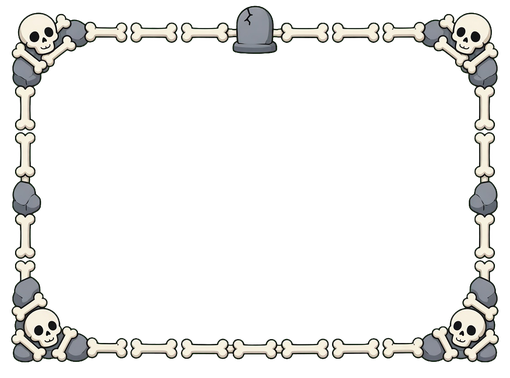
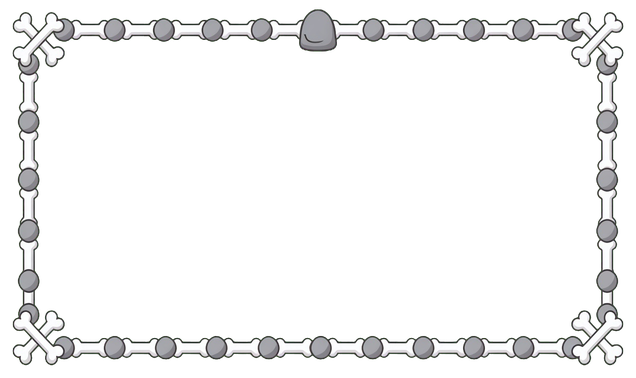
Cards: parchment, 25% wider, dark ink, tags on the top edge
- Grok parchment sheet tinted per kind (the colour coding stays); words
  in dark ink, the number in the kind's ink, the name in rarity ink.
- 212x126 (was 170x126): name 16px, text 12px, number 32px.
- Frames remade at 16:9 for the wider card (art-src/card-frames-wide);
  names start below the top ornament.
- ONCE / FLEETING / CURSED straddle the top edge on the left, clear of the
  enemy's ATK / DEF line.
- DECISIONS #86; NEXT.md; ART.md; screenshots in
  docs/audit/card-parchment-2026-11-01.

Claude-Session: https://claude.ai/code/session_019Lkx2XUgC2w8gfzapayGjN

Changed region(s): [[0.0, 0.0, 1.0, 0.9603]]

diff --git a/re-rpg/src/game/ui/Card.ts b/re-rpg/src/game/ui/Card.ts
@@ -3,19 +3,28 @@ import type { Skill, Stats } from '@data/types';
 import { cardFace, cardTheme, type CardKind, type CardPreview } from '@data/describe';
 import { COLORS, FONT, RARITY_COLORS } from './theme';
 
-/** A little bigger than before (150×112) so the frame (DECISIONS #85) takes no room from the text. */
-export const CARD_W = 170;
+/**
+ * 25% wider than #85's 170 (DECISIONS #86): the hand has the room, and wider lines mean fewer of them
+ * and bigger type. The frame (#85) takes only the margin.
+ */
+export const CARD_W = 212;
 export const CARD_H = 126;
 /** Where the frame's ornaments are: the top-centre piece and the corners. Text keeps clear of them. */
-const TOP = 15, CORNER = 24;
+const TOP = 21, CORNER = 26;
 
-/** Colour family per card kind (DECISIONS #28): attack red, defence blue, heal green, magic orange. */
-export const CARD_COLORS: Record<CardKind, { fill: number; edge: number; accent: string }> = {
-  attack: { fill: 0x4a1b20, edge: 0xd64545, accent: '#ff8a8a' },
-  defense: { fill: 0x172a48, edge: 0x4f8fe8, accent: '#8fc1ff' },
-  heal: { fill: 0x173526, edge: 0x3fbf7a, accent: '#8ff0b8' },
-  magic: { fill: 0x47290f, edge: 0xe08a2e, accent: '#ffc46b' },
+/**
+ * Colour family per card kind (DECISIONS #28): attack red, defence blue, heal green, magic orange.
+ * On parchment (#86) the kind is a light tint of the paper and a dark ink for the big number;
+ * `fill`/`edge` remain for the plain card drawn when the art is missing.
+ */
+export const CARD_COLORS: Record<CardKind, { fill: number; edge: number; accent: string; tint: number; ink: string }> = {
+  attack: { fill: 0x4a1b20, edge: 0xd64545, accent: '#ff8a8a', tint: 0xffd6cc, ink: '#a3161a' },
+  defense: { fill: 0x172a48, edge: 0x4f8fe8, accent: '#8fc1ff', tint: 0xd2e0ff, ink: '#1d4ed8' },
+  heal: { fill: 0x173526, edge: 0x3fbf7a, accent: '#8ff0b8', tint: 0xd4f2d6, ink: '#15803d' },
+  magic: { fill: 0x47290f, edge: 0xe08a2e, accent: '#ffc46b', tint: 0xffe4bf, ink: '#b45309' },
 };
+/** Ink on parchment (#86): dark brown, the colour of the words. */
+const INK = '#2b1d0e';
 
 /** A skill card in the hand. Tap to play. */
 export class Card extends Phaser.GameObjects.Container {
@@ -28,36 +37,39 @@ export class Card extends Phaser.GameObjects.Container {
     this.skillId = skill.id;
     const face = cardFace(skill, stats, preview);
     const c = CARD_COLORS[face.kind];
-    // The colour stays the kind (#28); the frame is the theme (#85). Without its art, the old edge.
+    // Parchment tinted by kind (#86) under a frame by theme (#85). Without the art, the old dark card.
+    const paper = scene.textures.exists('card_parchment');
     const frameKey = `frame_${cardTheme(skill, face.kind)}`;
-    const framed = scene.textures.exists(frameKey);
+    const framed = paper && scene.textures.exists(frameKey);
     this.bg = scene.add.rectangle(0, 0, CARD_W - 4, CARD_H - 4, c.fill);
     if (!framed) this.bg.setStrokeStyle(2, c.edge);
+    const sheet = paper ? scene.add.image(0, 0, 'card_parchment').setDisplaySize(CARD_W - 6, CARD_H - 6).setTint(c.tint) : null;
     const frame = framed ? scene.add.image(0, 0, frameKey).setDisplaySize(CARD_W, CARD_H) : null;
-    // Name in the rarity colour, body text under it, the headline number big in the bottom-left corner.
-    // A use tag (FLEETING) sits in the top-right corner, where nothing else is drawn; the name centres in what is left.
-    // A cursed-pool card (DECISIONS #73) wears a red CURSED tag in the same corner.
+    const ink = paper ? INK : '#e4e8f0', numberInk = paper ? c.ink : c.accent;
+    // Dark cards need an outline on the words; parchment does not.
+    const outline = paper ? {} : { stroke: '#0b0f1a', strokeThickness: 3 };
+
+    // The use tag (ONCE, FLEETING, CURSED) straddles the card's top edge on the left (#86): off the
+    // face and the ornaments, and low enough to stay clear of the enemy's ATK / DEF line above the hand.
     const tagText = skill.pool === 'cursed' ? 'CURSED' : skill.uses === 'fleeting' ? 'FLEETING' : skill.uses ? 'ONCE' : '';
-    // The tag rides on the frame's top band (#85), so the name keeps its full width.
-    const tag = tagText ? scene.add.text(CARD_W / 2 - CORNER - 2, -CARD_H / 2 + 1, tagText, { fontFamily: FONT, fontSize: '8px', color: skill.pool === 'cursed' ? '#ffffff' : '#0b0f1a', fontStyle: 'bold', backgroundColor: skill.pool === 'cursed' ? '#c1121f' : skill.uses === 'fleeting' ? '#c084fc' : '#e0c060', padding: { x: 4, y: 2 } }).setOrigin(1, 0) : null;
-    // A dark outline on every word: crisp on the panel and over any ornament it comes near.
-    const ink = { stroke: '#0b0f1a', strokeThickness: 3 };
-    const name = scene.add.text(0, -CARD_H / 2 + TOP, skill.name, { fontFamily: FONT, fontSize: '15px', color: rarityText(skill), fontStyle: 'bold', wordWrap: { width: CARD_W - 2 * CORNER }, align: 'center', ...ink }).setOrigin(0.5, 0);
+    const tag = tagText ? scene.add.text(-CARD_W / 2 + CORNER + 6, -CARD_H / 2 + 1, tagText, { fontFamily: FONT, fontSize: '10px', color: skill.pool === 'cursed' ? '#ffffff' : '#0b0f1a', fontStyle: 'bold', backgroundColor: skill.pool === 'cursed' ? '#c1121f' : skill.uses === 'fleeting' ? '#c084fc' : '#e0c060', padding: { x: 6, y: 2 } }).setOrigin(0, 0.5) : null;
+
+    const name = scene.add.text(0, -CARD_H / 2 + TOP, skill.name, { fontFamily: FONT, fontSize: '16px', color: paper ? rarityInk(skill) : rarityText(skill), fontStyle: 'bold', wordWrap: { width: CARD_W - 2 * CORNER - 8 }, align: 'center', ...outline }).setOrigin(0.5, 0);
     // A long name steps down rather than taking a second line from the text.
-    for (const size of [14, 13, 12]) if (name.height > 24) name.setFontSize(size);
-    const body = scene.add.text(0, -CARD_H / 2 + TOP + name.height + 2, text, { fontFamily: FONT, fontSize: '11px', color: '#e4e8f0', wordWrap: { width: CARD_W - 30 }, align: 'center', ...ink, strokeThickness: 2 }).setOrigin(0.5, 0);
+    for (const size of [15, 14, 13]) if (name.height > 24) name.setFontSize(size);
+    const body = scene.add.text(0, -CARD_H / 2 + TOP + name.height + 1, text, { fontFamily: FONT, fontSize: '12px', color: ink, wordWrap: { width: CARD_W - 36 }, align: 'center', lineSpacing: -1, ...outline, ...(paper ? {} : { strokeThickness: 2 }) }).setOrigin(0.5, 0);
     // Long text (a branching card, #69) steps down a size rather than running into the number.
-    const room = CARD_H - (TOP + name.height + 2) - 40;
-    for (const size of [10, 9, 8]) if (body.height > room) body.setFontSize(size).setLineSpacing(-1);
-    const value = scene.add.text(-CARD_W / 2 + CORNER + 2, CARD_H / 2 - 9, face.value, { fontFamily: FONT, fontSize: '30px', color: c.accent, fontStyle: 'bold', ...ink }).setOrigin(0, 1);
-    // The unit may carry the reasons the number moved ("damage · armour, hardened"). The reasons go on
-    // their own line in white above the unit.
+    const room = CARD_H - (TOP + name.height + 1) - 40;
+    for (const size of [11, 10, 9]) if (body.height > room) body.setFontSize(size);
+    const value = scene.add.text(-CARD_W / 2 + CORNER + 2, CARD_H / 2 - 8, face.value, { fontFamily: FONT, fontSize: '32px', color: numberInk, fontStyle: 'bold', ...outline }).setOrigin(0, 1);
+    // The unit may carry the reasons the number moved ("damage · armour, hardened"); the reasons go on
+    // their own line above the unit.
     const [unitWord, why] = face.unit.split(' · ');
-    const ux = -CARD_W / 2 + CORNER + 6 + value.width, wrap = CARD_W - 2 * CORNER - 8 - value.width;
-    const unit = scene.add.text(ux, CARD_H / 2 - 13, unitWord ?? '', { fontFamily: FONT, fontSize: '11px', color: c.accent, wordWrap: { width: wrap }, ...ink, strokeThickness: 2 }).setOrigin(0, 1);
-    this.add(frame ? [this.bg, frame, name, body, value, unit] : [this.bg, name, body, value, unit]);
+    const ux = -CARD_W / 2 + CORNER + 7 + value.width, wrap = CARD_W - 2 * CORNER - 10 - value.width;
+    const unit = scene.add.text(ux, CARD_H / 2 - 13, unitWord ?? '', { fontFamily: FONT, fontSize: '12px', color: numberInk, fontStyle: 'bold', wordWrap: { width: wrap }, ...outline, ...(paper ? {} : { strokeThickness: 2 }) }).setOrigin(0, 1);
+    this.add([this.bg, ...(sheet ? [sheet] : []), ...(frame ? [frame] : []), name, body, value, unit]);
     if (tag) this.add(tag);
-    if (why) this.add(scene.add.text(ux, CARD_H / 2 - 13 - unit.height + 1, why, { fontFamily: FONT, fontSize: '10px', color: '#ffffff', fontStyle: 'bold', wordWrap: { width: wrap }, lineSpacing: -2, ...ink, strokeThickness: 2 }).setOrigin(0, 1));
+    if (why) this.add(scene.add.text(ux, CARD_H / 2 - 13 - unit.height + 1, why, { fontFamily: FONT, fontSize: '11px', color: paper ? INK : '#ffffff', fontStyle: 'bold', wordWrap: { width: wrap }, lineSpacing: -2, ...outline, ...(paper ? {} : { strokeThickness: 2 }) }).setOrigin(0, 1));
     this.setSize(CARD_W, CARD_H);
     scene.add.existing(this);
 
@@ -79,4 +91,10 @@ function rarityText(skill: Skill): string {
   const hex = RARITY_COLORS[skill.rarity];
   if (skill.rarity === 'basic') return COLORS.text;
   return '#' + Math.min(0xffffff, hex + 0x606060).toString(16).padStart(6, '0');
+}
+
+/** Rarity in the name, as ink on parchment (#86): the rarity colours are already dark; a basic card is plain ink. */
+function rarityInk(skill: Skill): string {
+  if (skill.rarity === 'basic') return INK;
+  return '#' + RARITY_COLORS[skill.rarity].toString(16).padStart(6, '0');
 }

diff --git a/re-rpg/src/game/scenes/BootScene.ts b/re-rpg/src/game/scenes/BootScene.ts
@@ -42,7 +42,8 @@ export const ART_FILES: Record<string, string> = {
   fx_curse_skull: 'art/c/fx_curse_skull.png', // the curse's skull and crossbones (DECISIONS #79)
   map_2: 'art/c/map2.jpg',
   map_dungeon1: 'art/c/map_dungeon1.jpg',
-  // Card frames by theme (DECISIONS #85), from Grok (art-src/card-frames/).
+  // Card frames by theme (DECISIONS #85, wide in #86) and the parchment under them, from Grok (art-src/card-frames-wide/).
+  card_parchment: 'art/c/card_parchment.jpg',
   frame_sword: 'art/c/frame_sword.png',
   frame_shield: 'art/c/frame_shield.png',
   frame_magic: 'art/c/frame_magic.png',

diff --git a/re-rpg/docs/DECISIONS.md b/re-rpg/docs/DECISIONS.md
@@ -1408,3 +1408,39 @@ crop) into `public/art/c/frame_<theme>.png`. The picks: sword #3, shield #3, mag
 
 Pinned in `src/data/cardTheme.test.ts`. Checked in real hands at 844x390 and 3× density, on the
 forest, the tundra and the dungeon. Screenshots in `docs/audit/card-frames-2026-11-01/`.
+
+## 86. Parchment cards, 25% wider
+
+Designer's report on #85: the cards were not very readable, and the solid colour looked cheesy.
+They should look like parchment, 25% wider (the hand has the room), with tags like FLEETING moved
+off the face.
+
+**The face**:
+- a Grok parchment sheet (`public/art/c/card_parchment.jpg`, #3 of three: aged edges, a lighter
+  middle), tinted lightly by kind so the colour coding (#28) stays: red-pink attack, blue-grey
+  defence, green heal, amber magic;
+- the words are dark brown ink (`#2b1d0e`) with no outline;
+- the big number and its unit are in the kind's dark ink (deep red, blue, green, amber);
+- the name is in the rarity colour, which was already dark enough for paper (a basic card is
+  plain ink).
+
+**The size**: 212×126 (was 170×126). The wider lines hold more words, so the type grew: the name
+is 16 px (was 15), the text 12 px (was 11), the number 32 px. Long text still steps down; Cursed
+Counter's fits at 10 px.
+
+**The frames** (#85's themes) were made again at 16:9 to fit the wider card without warping their
+ornaments (`art-src/card-frames-wide/`):
+- picks: sword #2, shield #1, magic #1, bones #1;
+- the bones frame needed a third wording (cartoon bones and a stone marker, no skull) to pass
+  moderation;
+- the names now start below the top-centre ornament (it ran through "Attack", "Defend" and
+  "Ward" at first).
+
+**Tags**: ONCE, FLEETING and CURSED straddle the card's top edge on the left. Off the face and the
+ornaments, and low enough to stay clear of the enemy's ATK / DEF line above the hand; placed fully
+above the card, they sat on it.
+
+Without the parchment the old dark card draws, with outlined light text.
+
+Checked in real hands at 844x390 and 3× density: the forest, the tundra, the dungeon, and a hand
+with every frame. About $1.20 in Grok images. Screenshots in `docs/audit/card-parchment-2026-11-01/`.

diff --git a/re-rpg/docs/NEXT.md b/re-rpg/docs/NEXT.md
@@ -45,8 +45,9 @@ cards:validate, world:validate, tests, build). The game today is:
     2× damage, a half-damage shield, thorns 2, an unblockable follow-up. They pay 3× gold and EXP,
     plus the cursed pool, today just Cursed Counter (#73). Their traits show as tappable red chips,
     and a dead enemy does nothing to you: the blow that kills a thorned enemy is free (#78).
-- **Cards** wear a Grok frame by theme (#85): swords for attacks, shields for blocks, subtle magic
-  for magic, Ward and heals, bones for curses. The colour is still the kind; the cards are 170×126.
+- **Cards** are parchment (#86), tinted by kind with dark ink, 212×126, in a Grok frame by theme
+  (#85): swords for attacks, shields for blocks, subtle magic for magic, Ward and heals, bones for
+  curses. Tags (ONCE, FLEETING, CURSED) sit on the top edge.
 - **Battle effects** (#59, #62), chosen from what a card does or named per card in the card
   editor:
   - slash, fireball, lightning, frost, arcane, heal;
@@ -79,7 +80,7 @@ own command → Playwright at 844×390 (the game) or 390×844 (the editors) with
 (Test Mode: set registry `testSetup`, call `TestMode.fight()`, then `Combat.act()` and poll
 `busy`; to answer a dialogue from a script, `scene('Dialogue').choose(d, option)`) → commit with
 the attribution lines → `git push -u origin <branch>` → poll gh-pages. Record decisions in
-`docs/DECISIONS.md` (next number is 86). Screenshots of checks go in `docs/audit/<topic>-<date>/`.
+`docs/DECISIONS.md` (next number is 87). Screenshots of checks go in `docs/audit/<topic>-<date>/`.
 
 **Run logs** (`docs/PLAYTESTS.md`, DECISIONS #67). When the designer sends a run log, always:
 1. save it in `docs/playtests/`;

diff --git a/re-rpg/docs/ART.md b/re-rpg/docs/ART.md
@@ -238,7 +238,12 @@ paste it and saves it as `XAI_API_KEY=<key>` in `re-rpg/.env.local` (mode 600).
 
 The image host turns away Python's default user agent, so the script sends its own.
 
-### Card frames (DECISIONS #85)
+### Card frames (DECISIONS #85, #86)
+
+The shipped frames are the 16:9 set in `art-src/card-frames-wide/` (the card is 212×126), cut with
+`cut-green.py ... 636x378`. The parchment under them is `card_parchment.jpg`, a plain Grok sheet,
+tinted per kind in code.
+
 
 Each frame fills a 4:3 image on a flat green screen (thin border, ornaments in the corners and at
 the top centre). `python3 scripts/cut-green.py <src> public/art/c/frame_<theme>.png 510x378` keys
